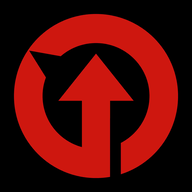
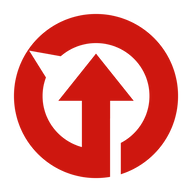
Add files via upload

diff --git a/index.html b/index.html
@@ -7,7 +7,7 @@
 <meta name="apple-mobile-web-app-capable" content="yes"><meta name="mobile-web-app-capable" content="yes">
 <meta name="apple-mobile-web-app-title" content="Readup"><meta name="apple-mobile-web-app-status-bar-style" content="default">
 <meta name="theme-color" content="#cf1717">
-<link rel="apple-touch-icon" href="icon-180.png"><link rel="icon" type="image/png" href="icon-192.png"><link rel="manifest" href="manifest.webmanifest">
+<link rel="apple-touch-icon" href="icon-180.png"><link rel="icon" type="image/png" href="icon-192.png?v=2"><link rel="manifest" href="manifest.webmanifest">
 <script>try{const f=localStorage.getItem('fs');if(f)document.documentElement.style.setProperty('--rf',f+'rem')}catch(e){}try{const s=localStorage.getItem('theme');document.documentElement.dataset.bsTheme=s||(matchMedia('(prefers-color-scheme:dark)').matches?'dark':'light')}catch(e){}</script>
 <link href="https://cdn.jsdelivr.net/npm/bootstrap@5.3.3/dist/css/bootstrap.min.css" rel="stylesheet">
 <link href="https://cdn.jsdelivr.net/npm/bootstrap-icons@1.11.3/font/bootstrap-icons.min.css" rel="stylesheet">
@@ -129,7 +129,7 @@ button,.btn,.nav-item-x,.art{touch-action:manipulation}
 
 <div id="appView" class="vfade" style="display:none">
   <header class="topbar"><div class="container-fluid px-3 px-lg-4 py-2 d-flex align-items-center">
-    <button class="btn btn-outline-secondary d-lg-none me-2 px-2 py-1" data-bs-toggle="offcanvas" data-bs-target="#sideCanvas" aria-label="Menu"><i class="bi bi-list fs-5"></i></button><a class="brand fs-5 text-nowrap" href="#" id="brandHome"><i class="bi bi-newspaper me-2 d-none d-sm-inline"></i><span class="d-none d-sm-inline">Readup Support News</span><span class="d-sm-none">Readup</span></a>
+    <button class="btn btn-outline-secondary d-lg-none me-2 px-2 py-1" data-bs-toggle="offcanvas" data-bs-target="#sideCanvas" aria-label="Menu"><i class="bi bi-list fs-5"></i></button><a class="brand fs-5 text-nowrap" href="#" id="brandHome"><img src="logo.png" alt="" class="brand-logo me-2"><span class="d-none d-sm-inline">Readup Support News</span><span class="d-sm-none">Readup</span></a>
     <div class="ms-auto d-flex align-items-center gap-2">
       <div class="tools-slot"></div>
       <div class="dropdown">
@@ -789,6 +789,85 @@ document.addEventListener('mouseover',e=>{
   const n=cur.notes[m.dataset.id]; if(!n){ hidePop(tp); return; }
   tp.textContent=n; place(tp,()=>rectsOf(m),'above'); tp.classList.add('on');
 });
+</script>
+
+<style>
+.brand-logo{height:34px;width:34px;object-fit:contain;vertical-align:middle;flex:none}
+@media (max-width:575.98px){.brand-logo{height:30px;width:30px}}
+.feed-grp{font-size:.72rem;letter-spacing:.04em;text-transform:uppercase}
+</style>
+<script>
+/* ===== Bổ sung (không sửa code cũ): feed nhiều nguồn, chủ đề Logistics / Supply chain, link mở cửa sổ nhỏ ===== */
+(()=>{
+  /* Chủ đề mới */
+  TOPIC.logi='logistic freight airfreight cargo shipping shipment ship warehous fulfil courier trucking truck container carrier seaport ports customs forwarder deliver';
+  TOPIC.supply='supply supplier procure inventor sourcing shortage manufactur reshor nearshor stockpil bottleneck backlog';
+  Object.assign(TL.vi,{logi:'Logistics',supply:'Chuỗi cung ứng'});
+  Object.assign(TL.en,{logi:'Logistics',supply:'Supply chain'});
+  const PRI=['logi','supply'];
+
+  /* Nguồn RSS mặc định (findFeed cũ sẽ tự dò RSS nếu nguồn không có trong danh sách này) */
+  Object.assign(FEEDS,{
+    'supplychaindive.com':'https://www.supplychaindive.com/feeds/news/',
+    'freightwaves.com':'https://www.freightwaves.com/news/feed',
+    'theloadstar.com':'https://theloadstar.com/feed/',
+    'logisticsviewpoints.com':'https://logisticsviewpoints.com/feed/',
+    'techcrunch.com':'https://techcrunch.com/feed/',
+    'sciencedaily.com':'https://www.sciencedaily.com/rss/all.xml'
+  });
+  const DEF_LOGI=['supplychaindive.com','freightwaves.com','theloadstar.com','logisticsviewpoints.com','supplychainbrain.com'];
+  const DEF_GEN=['bbc.com','theguardian.com','npr.org','aljazeera.com','theconversation.com','e.vnexpress.net','techcrunch.com','sciencedaily.com'];
+  let RECENT=new Set();
+  const vi=()=>lang==='vi';
+
+  /* Vẽ lại thẻ + chip: Logistics và Chuỗi cung ứng luôn đứng đầu */
+  paint=function(hosts){
+    const box=$('#homeFeed'); if(!box) return;
+    const all=hosts.flatMap(h=>HF[h]||[]), cnt={}; all.forEach(it=>it.tp.forEach(k=>{ cnt[k]=(cnt[k]||0)+1; }));
+    const rest=Object.keys(cnt).filter(k=>!PRI.includes(k)).sort((a,b)=>cnt[b]-cnt[a]), ks=[...PRI,...rest];
+    if(homeTopic!=='all'&&!ks.includes(homeTopic)) homeTopic='all';
+    const chip=(k,lb,n)=>`<button class="btn btn-sm rounded-pill ${homeTopic===k?'btn-primary':'btn-outline-secondary'}" data-tp="${k}">${lb} <span class="opacity-75">${n}</span></button>`;
+    $('#feedChips').innerHTML=chip('all',t('allT'),all.length)+ks.map(k=>chip(k,TL[lang][k],cnt[k]||0)).join('');
+    hosts.forEach(h=>{
+      const blk=box.querySelector(`[data-h="${CSS.escape(h)}"]`), el=blk&&blk.querySelector('.feed-row'); if(!el||HF[h]===undefined) return;
+      const its=HF[h].filter(it=>homeTopic==='all'||it.tp.includes(homeTopic));
+      el.innerHTML=its.length?its.map(card).join(''):`<div class="small text-muted">${t(HF[h].length?'feedNoTopic':'feedNone')}</div>`;
+      blk.classList.toggle('d-none',homeTopic!=='all'&&!its.length);
+    });
+  };
+
+  /* Trang chủ: nguồn Logistics/Supply chain → nguồn người dùng đọc gần đây → các nguồn tổng hợp khác */
+  renderHome=async function(){
+    const box=$('#homeFeed'); if(!box||!user) return;
+    const recent=[]; for(const a of articles){ try{ const h=new URL(a.url).hostname.replace(/^www\./,''); if(!recent.includes(h)) recent.push(h); }catch(e){} if(recent.length>=3) break; }
+    RECENT=new Set(recent);
+    const hosts=[...new Set([...DEF_LOGI,...recent,...DEF_GEN])];
+    HF={};
+    const title=vi()?'Bài mới từ nhiều nguồn':'Latest from many sources', badge=vi()?'bạn đọc gần đây':'recently read';
+    box.innerHTML=`<div class="d-flex align-items-center mb-2"><h6 class="fw-bold mb-0"><i class="bi bi-rss me-2" style="color:var(--brand-t)"></i>${title}</h6><button class="btn btn-sm btn-outline-secondary ms-auto" id="feedRef"><i class="bi bi-arrow-clockwise"></i></button></div><div id="feedChips" class="d-flex gap-2 mb-3" style="overflow-x:auto;white-space:nowrap"></div>`
+      +hosts.map(h=>`<div class="mb-3" data-h="${esc(h)}"><div class="small fw-semibold text-muted mb-1">${esc(h)}${RECENT.has(h)?` <span class="badge text-bg-danger feed-grp ms-1">${badge}</span>`:''}</div><div class="feed-row"><div class="text-muted small"><span class="spinner-border spinner-border-sm me-2"></span>${t('lkWait')}</div></div></div>`).join('');
+    $('#feedRef').onclick=()=>{ hosts.forEach(h=>{ try{ localStorage.removeItem('fj:'+h); }catch(e){} }); renderHome(); };
+    $('#feedChips').onclick=e=>{ const b=e.target.closest('[data-tp]'); if(!b) return; homeTopic=b.dataset.tp; try{ localStorage.setItem('ft',homeTopic); }catch(_){} paint(hosts); };
+    paint(hosts);
+    hosts.forEach(async h=>{ HF[h]=(await loadFeed(h)).map(it=>({...it,tp:topicsOf(it)})); paint(hosts); });
+  };
+
+  /* Mọi link http(s) trong web → mở cửa sổ nhỏ như khi bấm bài ở ngoài.
+     Ngoại lệ: link nằm trong nội dung bài báo đã lưu (#reader) giữ nguyên hành vi cũ. */
+  function popLink(u){
+    if(matchMedia('(pointer:coarse)').matches){ window.open(u,'_blank','noopener'); return; }
+    const W=Math.min(1000,screen.availWidth-80), H=Math.min(820,screen.availHeight-80), L=Math.max(0,screen.availWidth-W-40);
+    const w=window.open('about:blank','readupPreview',`popup=yes,width=${W},height=${H},left=${L},top=40`);
+    if(!w){ window.open(u,'_blank','noopener'); return; }
+    try{ w.opener=null; }catch(e){} w.location.href=u; w.focus();
+  }
+  document.addEventListener('click',e=>{
+    if(e.defaultPrevented||e.button!==0||e.ctrlKey||e.metaKey||e.shiftKey||e.altKey) return;
+    const a=e.target.closest&&e.target.closest('a[href]'); if(!a||a.closest('#reader')) return;
+    if(!/^https?:\/\//i.test(a.getAttribute('href')||'')) return;
+    e.preventDefault(); popLink(a.href);
+  },true);
+})();
 </script>
 </body>
 </html>
